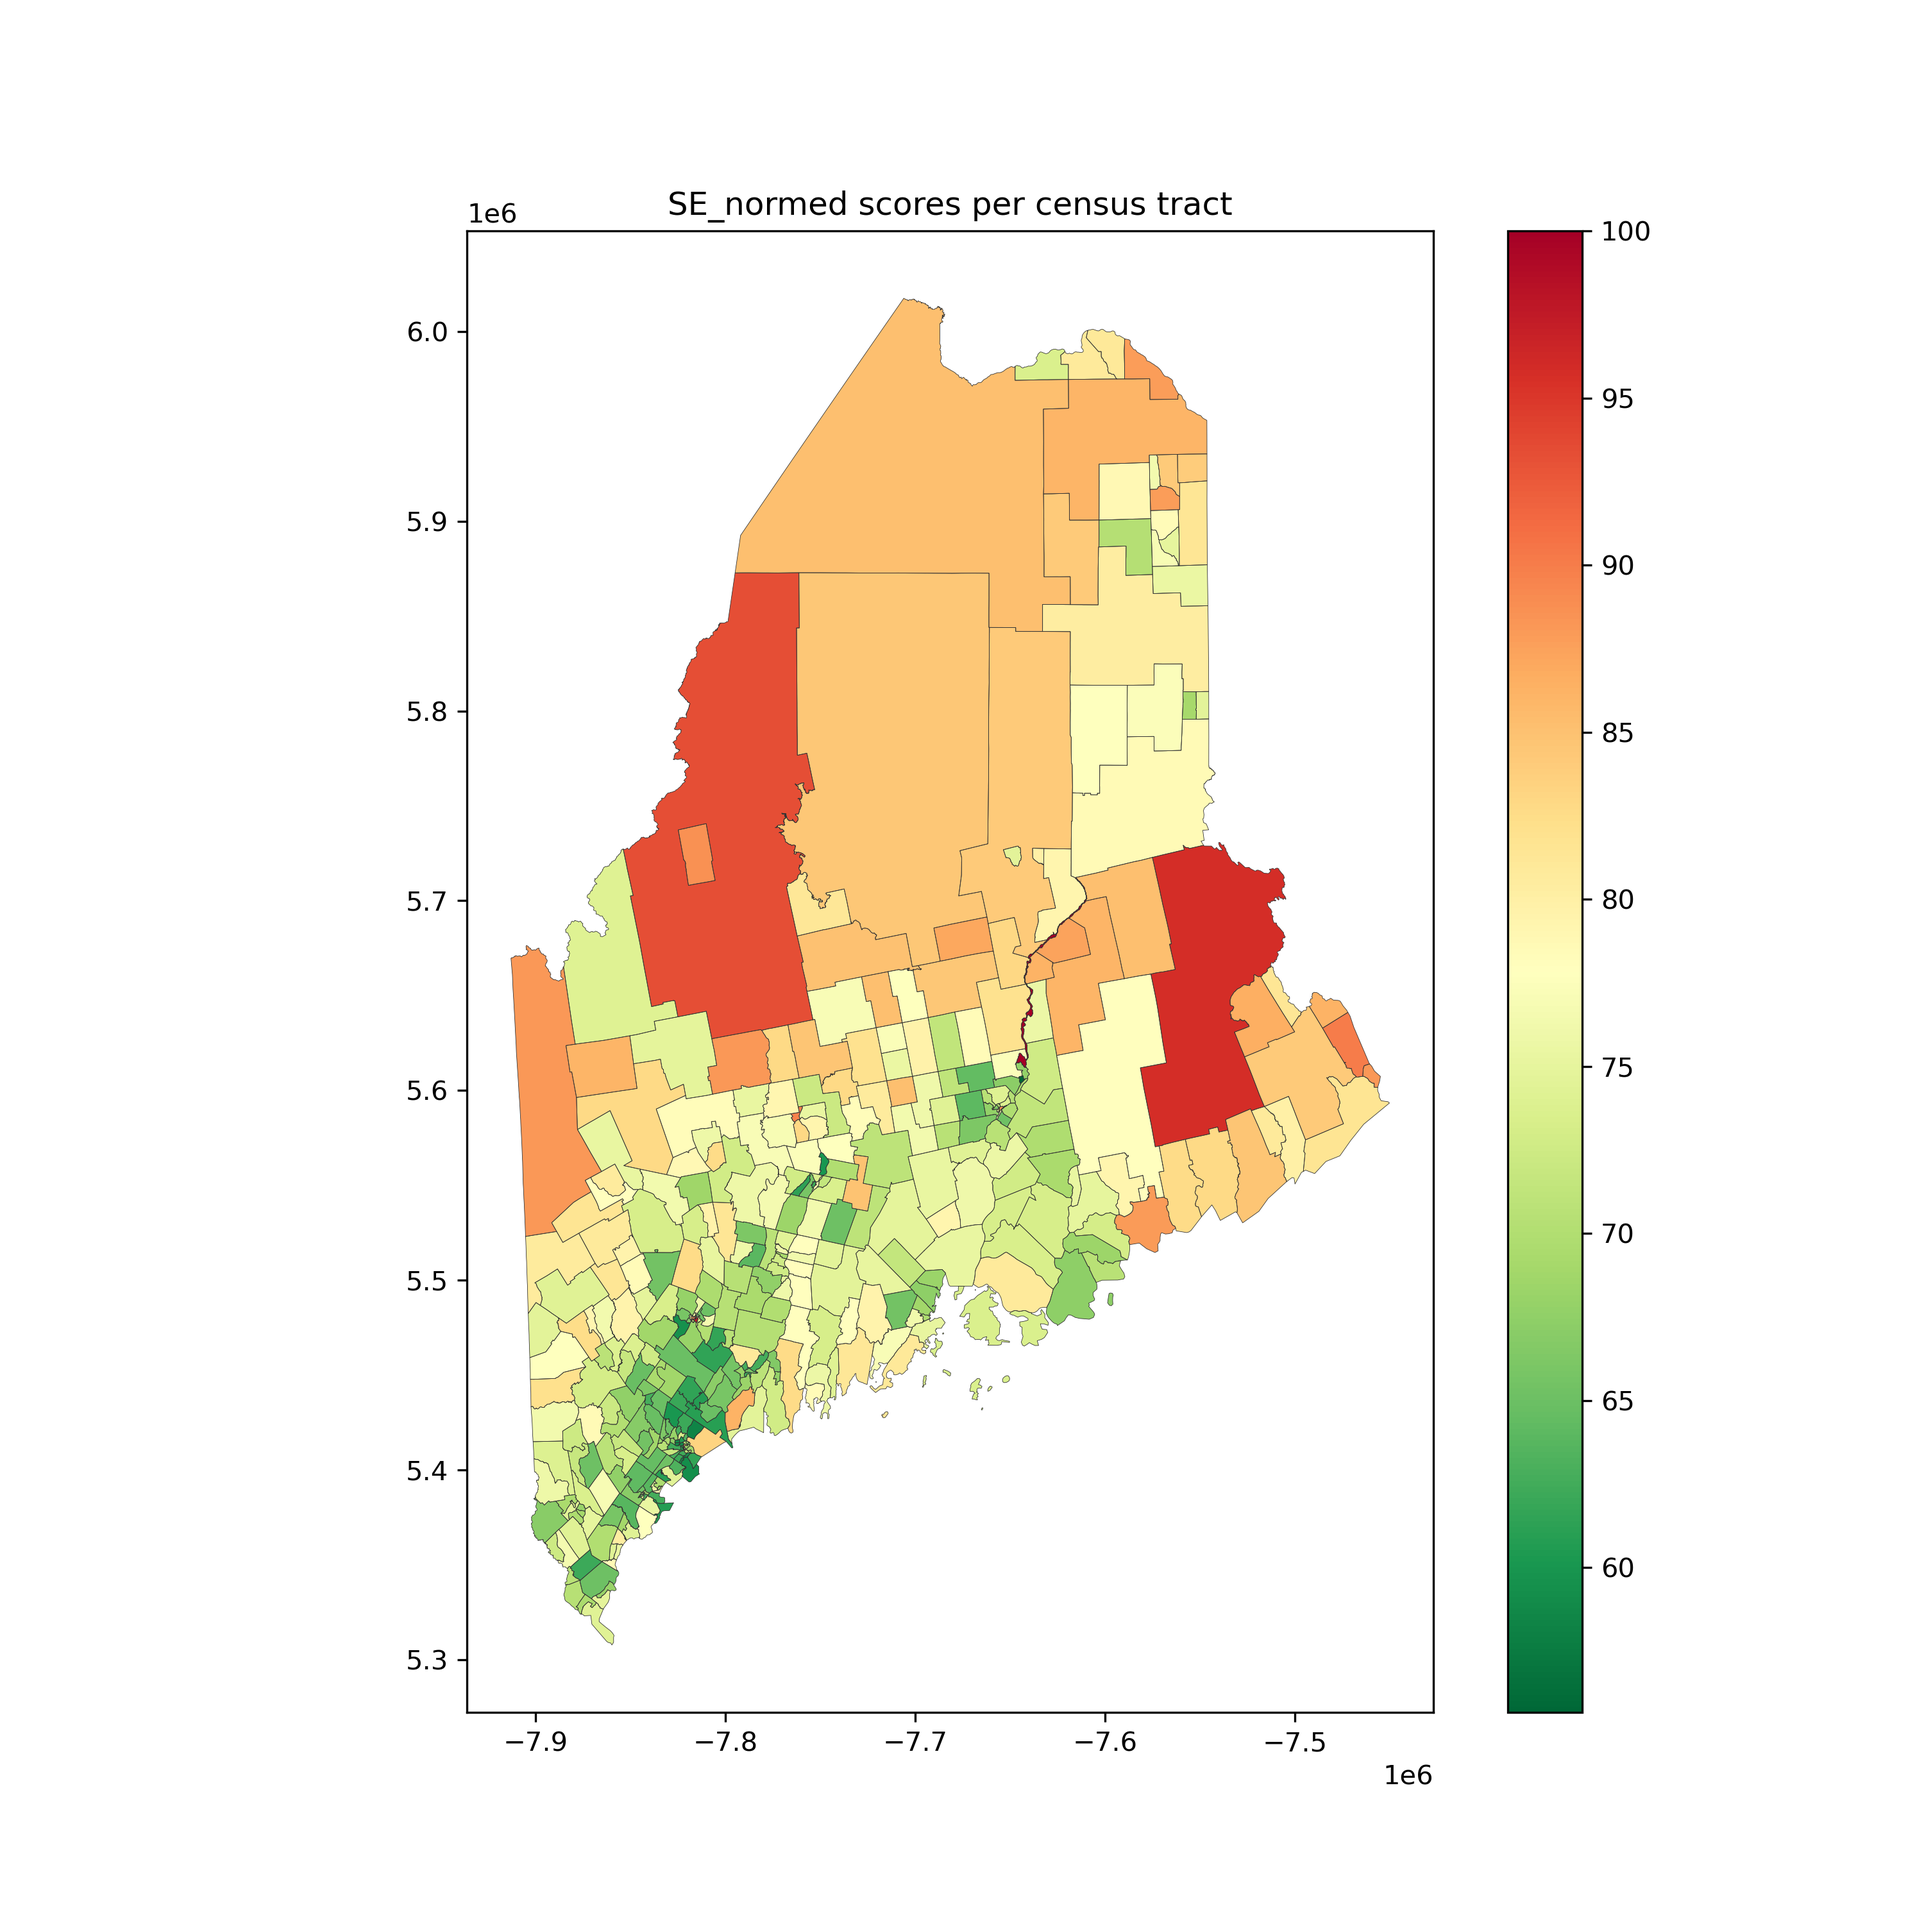
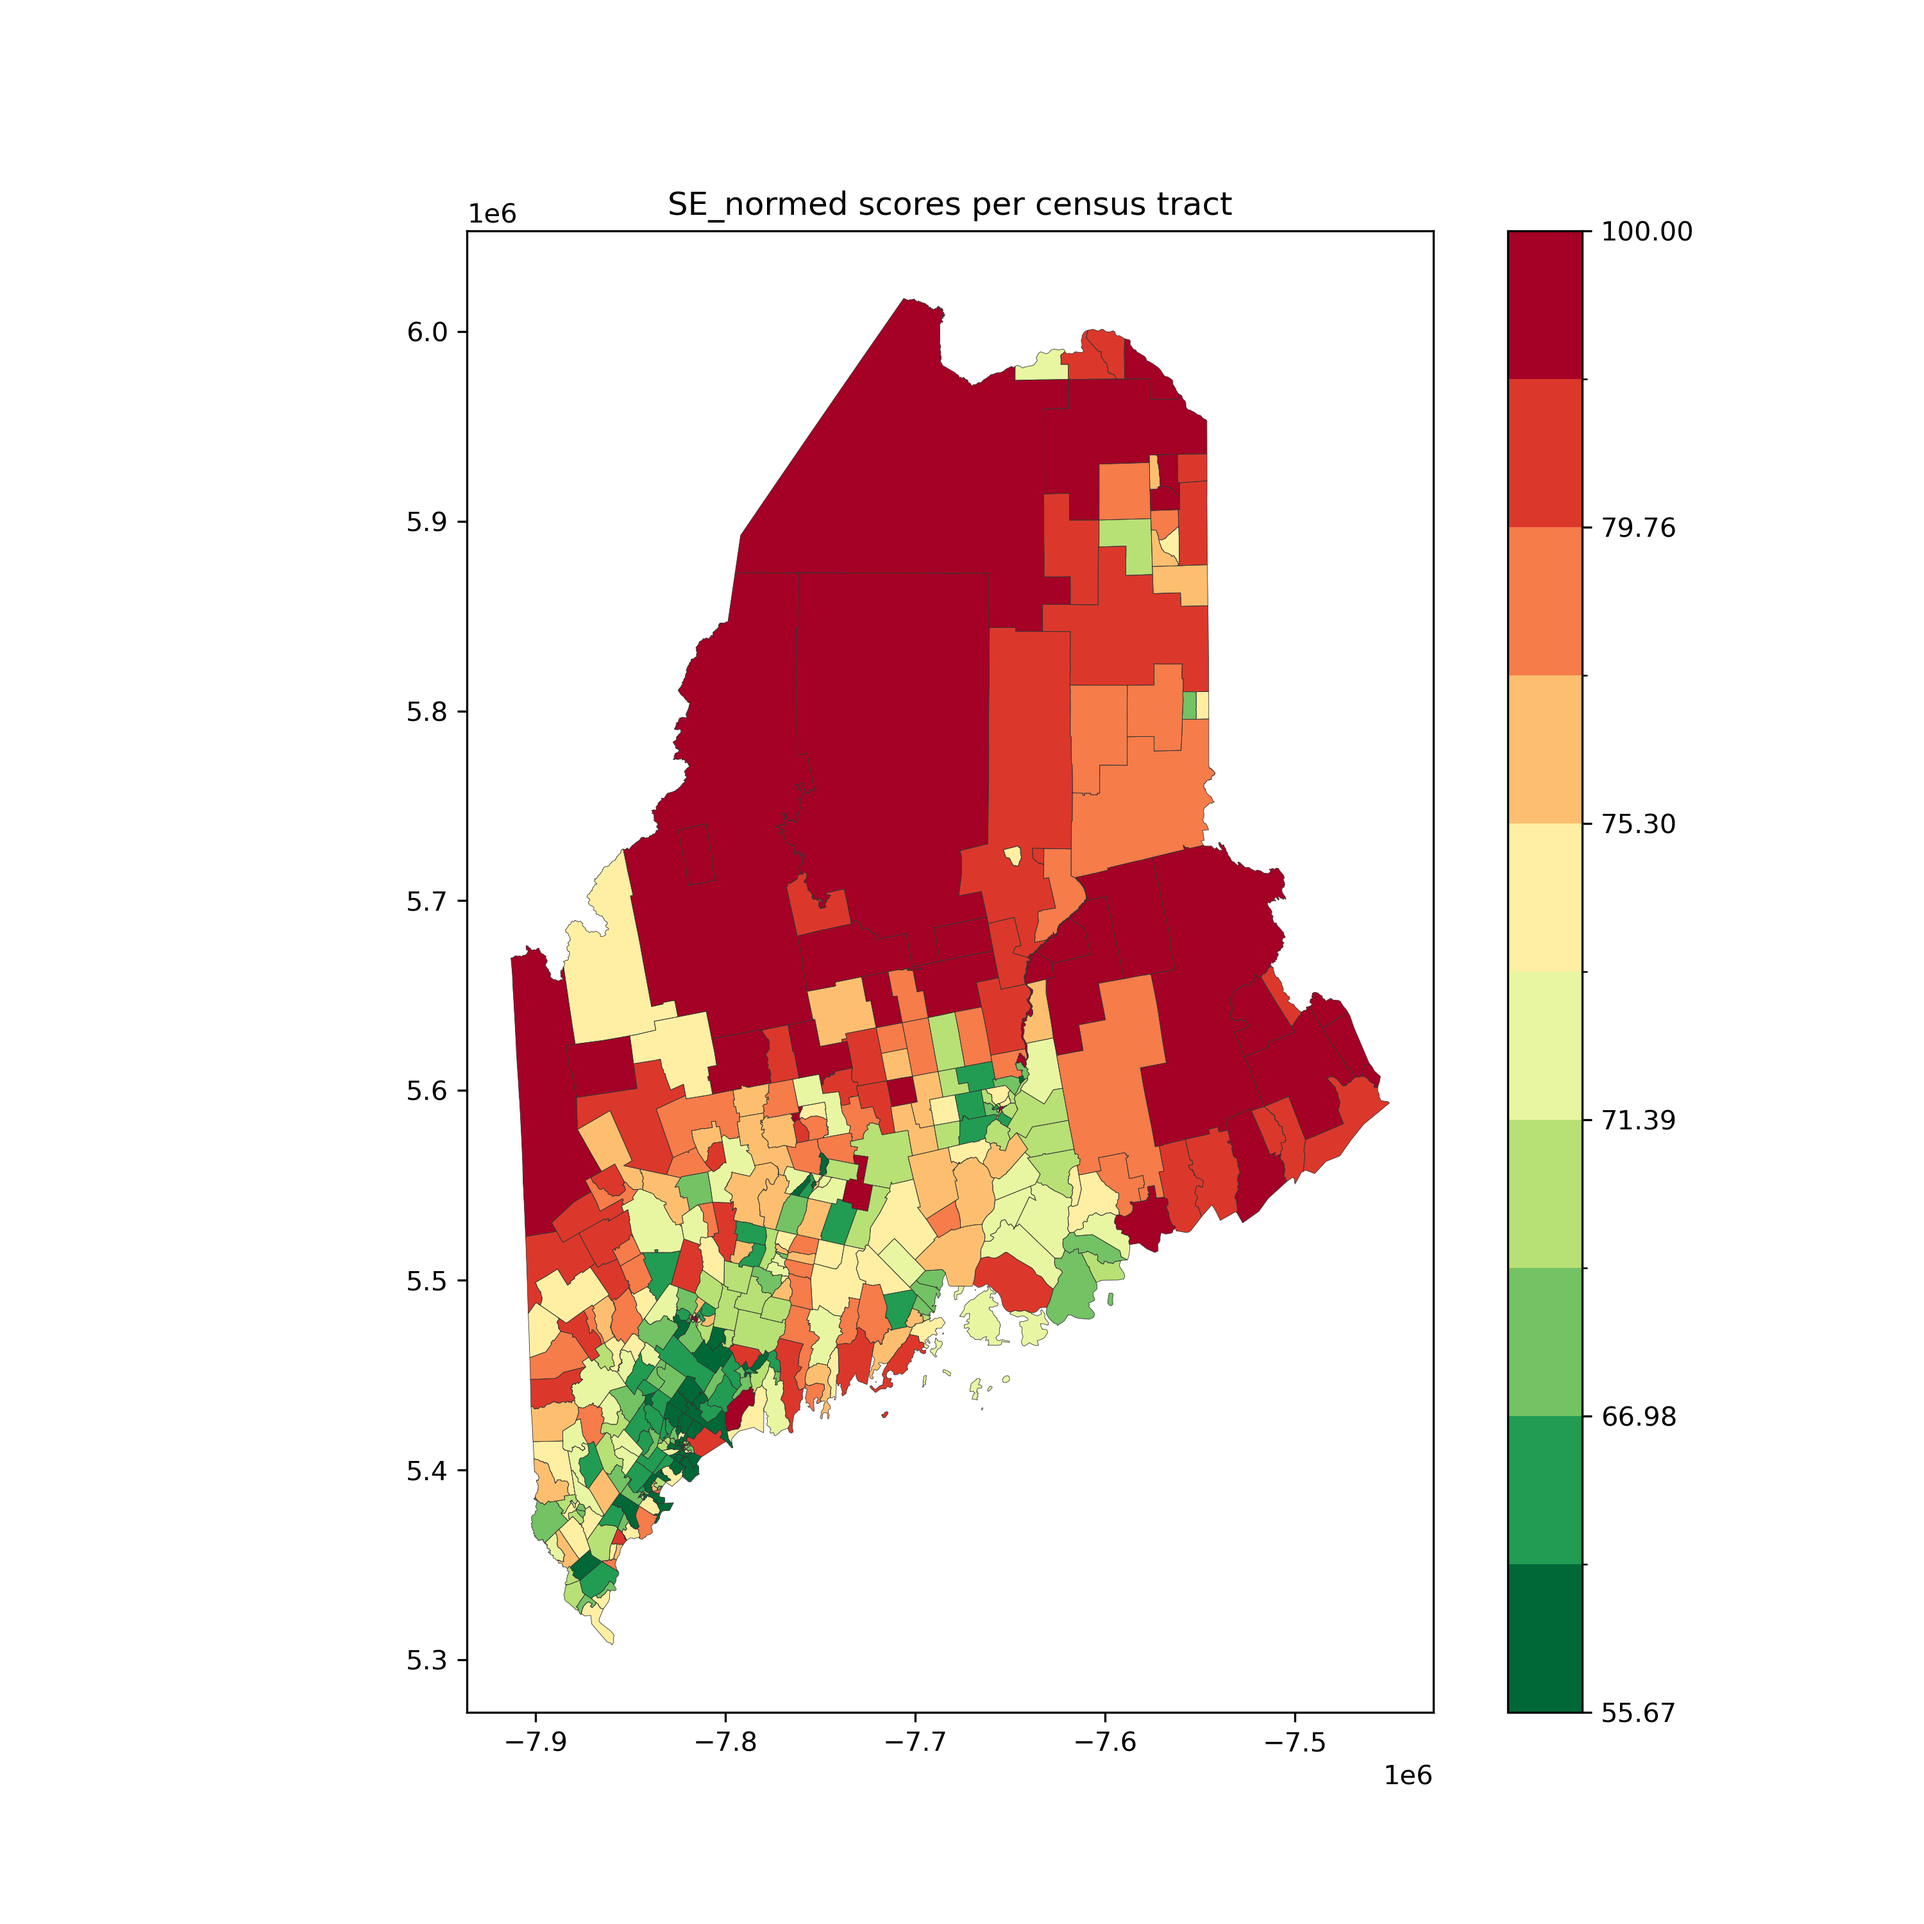
update se map

diff --git a/src/SE_map.py b/src/SE_map.py
@@ -27,16 +27,10 @@ for score in scores:
 
     new_gdf = gdf.merge(df_data[['GEOID', score, 'title']], on='GEOID', how='left')
     new_wm = new_gdf.to_crs(epsg=3857)
-    
-    if score == 'SE_normed':
-        # using the actual min and max (normalized)
-        min_val = new_gdf[score].min()
-        max_val = new_gdf[score].max()
-        norm = mpl.colors.Normalize(vmin=min_val, vmax=max_val)
-    else:
-        # use percentiles to emphasize the relative ranking
-        percentiles = np.percentile(new_gdf[score].dropna(), np.arange(0, 101, 10))
-        norm = mpl.colors.BoundaryNorm(boundaries=percentiles, ncolors=256)
+
+    # use percentiles to emphasize the relative ranking
+    percentiles = np.percentile(new_gdf[score], np.arange(0, 101, 10))
+    norm = mpl.colors.BoundaryNorm(boundaries=percentiles, ncolors=256)
     cmap = mpl.cm.RdYlGn_r
     ax = new_wm.plot(score, legend=True, norm=norm, cmap=cmap)
     new_wm.boundary.plot(ax=ax, linewidth=0.2, edgecolor='#333')
